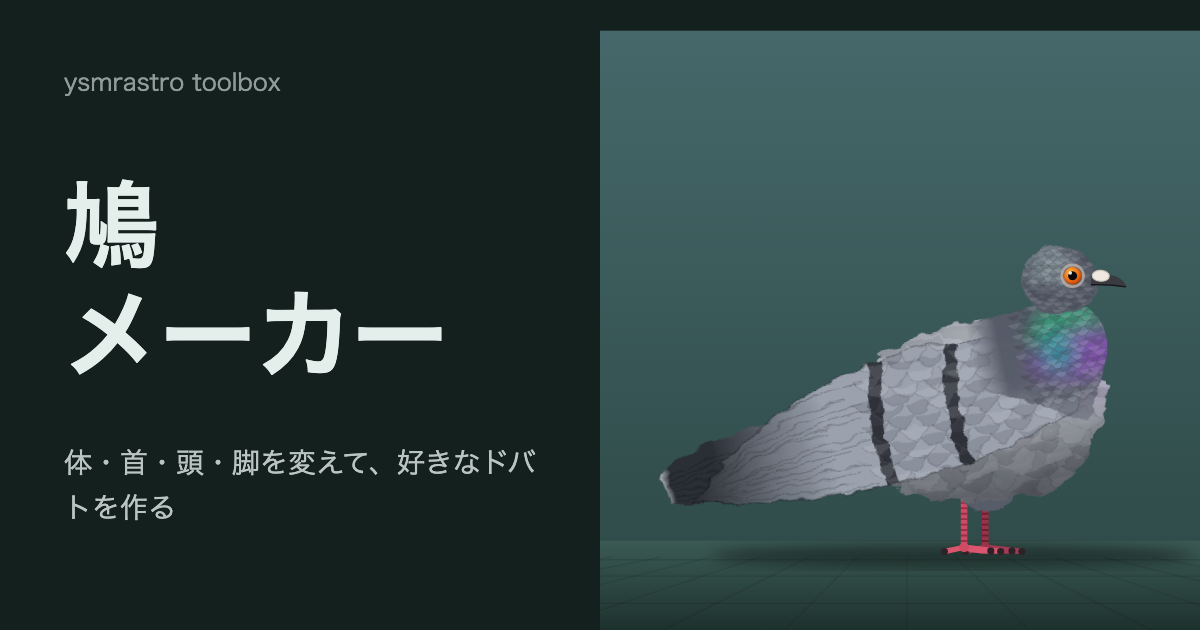
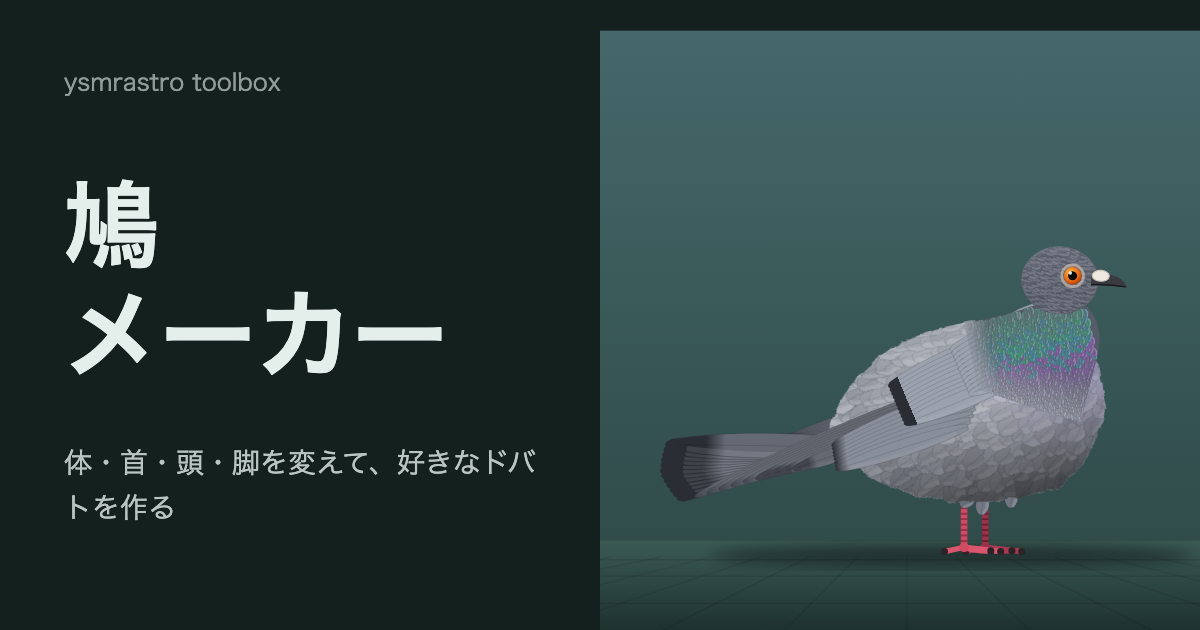
鳩メーカー: 羽を1枚ずつ描き、体を高解像度の画像にして粗さを直す
- 体は輪郭羽を屋根瓦のように重ねて描く（以前は鱗の模様）
- 翼は初列・次列風切と大・中・小雨覆に分け、ブルーバーの帯は羽先の暗色で表す
- 尾は12枚の尾羽。首は羽1枚ごとに玉虫色を付ける
- 体の層はフィルタを使うため、画面の解像度（devicePixelRatio）に合わせた画像にして貼る
  （SVG のままだとスマホでフィルタが低解像度になって粗く見える）
- 首・頭の層は SVG フィルタをやめ、拡大しても崩れないベクターにする

Claude-Session: https://claude.ai/code/session_01GKDzq7dByJNYUnVyWucxve

Changed region(s): [[0.5242, 0.4825, 0.925, 0.8143], [0.8633, 0.3921, 0.8942, 0.4524]]

diff --git a/pigeon-maker/pigeon.js b/pigeon-maker/pigeon.js
@@ -100,21 +100,26 @@ const PIGEON = (() => {
     };
   }
 
-  // ---- 部品 ----
-  function scallops(x0, x1, y0, y1, sc, col, rnd, op) {
-    let out = '';
-    const dy = sc * .8;
-    let row = 0;
-    for (let y = y0; y < y1; y += dy, row++) {
-      for (let x = x0 + (row % 2) * sc; x < x1; x += sc * 2) {
-        const jx = (rnd() - .5) * sc * .6, jy = (rnd() - .5) * sc * .4, w = sc * (.85 + rnd() * .3);
-        const X = x + jx, Y = y + jy, sh = rnd();
-        out += `<path d="M${f(X - w)},${f(Y)}Q${f(X)},${f(Y + sc * 1.6)} ${f(X + w)},${f(Y)}" fill="${sh > .5 ? '#fff' : '#000'}" fill-opacity="${f(.04 + rnd() * .08)}" stroke="${col}" stroke-opacity="${op}" stroke-width=".9"/>`;
-      }
+  // ---- 色と羽 ----
+  const hex2 = h => { if (h.length === 4) h = '#' + h[1] + h[1] + h[2] + h[2] + h[3] + h[3]; return [1, 3, 5].map(i => parseInt(h.substr(i, 2), 16)); };
+  const mix = (a, b, t) => { const A = hex2(a), B = hex2(b); t = Math.max(0, Math.min(1, t)); return '#' + A.map((v, i) => Math.round(v + (B[i] - v) * t).toString(16).padStart(2, '0')).join(''); };
+
+  // 羽1枚。根元が原点、先が +x。ang は時計回りの度。tip を渡すと、先の側を別の色にする（帯）
+  function feather(F, x, y, len, wid, ang, col, o) {
+    o = o || {};
+    let fill = col;
+    if (o.tip) {
+      const id = F.pre + (F.n++), from = o.from || .7;
+      F.defs.push(`<linearGradient id="${id}" x1="0" y1="0" x2="1" y2="0"><stop offset="0" stop-color="${col}"/><stop offset="${f(from)}" stop-color="${col}"/><stop offset="${f(Math.min(1, from + .09))}" stop-color="${o.tip}"/><stop offset="1" stop-color="${o.tip}"/></linearGradient>`);
+      fill = `url(#${id})`;
     }
-    return out;
+    const d = `M0,${f(-wid * .3)}C${f(len * .22)},${f(-wid)} ${f(len * .7)},${f(-wid * 1.05)} ${f(len * .97)},${f(-wid * .35)}Q${f(len * 1.03)},0 ${f(len * .97)},${f(wid * .35)}C${f(len * .7)},${f(wid * 1.05)} ${f(len * .22)},${f(wid)} 0,${f(wid * .3)}Z`;
+    return `<g transform="translate(${f(x)} ${f(y)}) rotate(${f(ang)})"><path d="${d}" fill="${fill}" stroke="${o.edge || '#000'}" stroke-opacity="${o.ea == null ? .32 : o.ea}" stroke-width=".6"/>` +
+      `<path d="M0,0H${f(len * .94)}" stroke="#000" stroke-opacity=".16" stroke-width=".5"/>` +
+      `<path d="M${f(len * .1)},${f(-wid * .25)}C${f(len * .3)},${f(-wid * .7)} ${f(len * .62)},${f(-wid * .75)} ${f(len * .88)},${f(-wid * .3)}" stroke="#fff" stroke-opacity="${o.hl == null ? .14 : o.hl}" stroke-width="${f(wid * .38)}" fill="none" stroke-linecap="round"/></g>`;
   }
 
+  // ---- 部品 ----
   function leg(id, x, y, G, col, toeCol, shade) {
     const s = G.s, th = G.th, L = G.ll;
     const ay = L - 3 * s;
@@ -129,7 +134,7 @@ const PIGEON = (() => {
 
   function neckPath(G, dx, dy) {
     const { a, b, r, s } = G;
-    const P1 = { x: a * .12, y: -b * .92 }, P2 = { x: a * 1.02, y: -b * .28 };
+    const P1 = { x: a * .12, y: -b * .92 }, P2 = { x: a * .95, y: -b * .28 };
     const Hc = { x: G.H.x + dx, y: G.H.y + dy };
     const Hb = { x: Hc.x - r * .9, y: Hc.y + r * .55 }, Hf = { x: Hc.x + r * .62, y: Hc.y + r * .92 };
     const c1 = { x: (P1.x + Hb.x) / 2 - 6 * s, y: (P1.y + Hb.y) / 2 + 4 * s };
@@ -146,89 +151,136 @@ const PIGEON = (() => {
     const fz = f(2 + fl * 13);
     const bodyD = `M${f(-a * .95)},${f(-b * .05)}C${f(-a * .7)},${f(-b * .95)} ${f(a * .1)},${f(-b * 1.05)} ${f(a * .55)},${f(-b * .8)}C${f(a * 1.05)},${f(-b * .5)} ${f(a * (1.08 + .06 * fl))},${f(b * .35)} ${f(a * .55)},${f(b * .9)}C${f(a * .1)},${f(b * 1.05)} ${f(-a * .7)},${f(b * .8)} ${f(-a * .95)},${f(-b * .05)}Z`;
 
-    // 翼（手首から翼端まで、翼長の実測値で決める）
-    const Wx = a * .7, Wy = -b * .45, L = G.wingL, Tx = Wx - L, Ty = b * .3;
-    const wingD = `M${f(Wx)},${f(Wy)}C${f(Wx - L * .25)},${f(-b * 1.02)} ${f(Wx - L * .7)},${f(-b * .8)} ${f(Tx)},${f(Ty)}C${f(Tx + L * .3)},${f(b * .62)} ${f(Wx - L * .3)},${f(b * .66)} ${f(Wx + a * .05)},${f(Wy + b * .62)}C${f(Wx + a * .18)},${f(Wy + b * .3)} ${f(Wx + a * .12)},${f(Wy + b * .08)} ${f(Wx)},${f(Wy)}Z`;
-    const bar = frac => { const x = Wx - L * frac; return `<path d="M${f(x + 16 * s)},${f(-b * 1.0)}Q${f(x - 6 * s)},${f(-b * .15)} ${f(x + 6 * s)},${f(b * .7)}" stroke="${M.bar}" stroke-width="${f(9 * s)}" fill="none" opacity="${morphKey === 'white' ? .5 : .9}"/>`; };
-    let covert = '';
-    if (M.pat === 'checker') {
-      for (let i = 0; i < 46; i++) { const cx = Wx - L * (.04 + rnd() * .5), cy = -b * .9 + rnd() * b * 1.1, w = (5 + rnd() * 4) * s; covert += `<rect x="${f(cx)}" y="${f(cy)}" width="${f(w)}" height="${f(w * .9)}" rx="${f(w * .25)}" fill="${M.bar}" fill-opacity=".8"/>`; }
-    } else if (M.pat === 't') {
-      covert = `<path d="M${f(Wx + 6)},${f(-b * 1.1)}L${f(Wx - L * .56)},${f(-b * 1.1)}L${f(Wx - L * .5)},${f(b * .5)}L${f(Wx + 6)},${f(b * .5)}Z" fill="${M.bar}" fill-opacity=".72"/>`;
-    } else if (M.pat === 'spread') {
-      covert = `<rect x="${f(Tx)}" y="${f(-b * 1.1)}" width="${f(L + 12)}" height="${f(b * 1.7)}" fill="${M.bar}" fill-opacity=".5"/>`;
-    }
-    let flight = '';
-    for (let i = 0; i < 16; i++) {
-      const y = -b * .55 + i * b * .075, x0 = Wx - L * (.5 + rnd() * .12);
-      flight += `<path d="M${f(x0)},${f(y)}Q${f(x0 - L * .25)},${f(y + b * .04)} ${f(Tx + rnd() * 30 * s)},${f(Ty + (y - Ty) * .25)}" stroke="${M.bar}" stroke-opacity=".28" stroke-width=".9" fill="none"/>`;
+    const F = { n: 0, defs: [], pre: 'fb' };
+    const dk = M.bar;
+
+    // ---- 体の輪郭羽（屋根瓦のように、後ろ・下から先に描き、前・上を重ねる）----
+    const flen = (15 + fl * 8) * s, fwid = (6 + fl * 2.6) * s, sx = fwid * 1.15, sy = flen * .42;
+    let bodyF = '', row = 0;
+    for (let y = b * 1.02; y > -b * 1.1; y -= sy, row++) {
+      for (let x = -a * 1.0 + (row % 2) * sx / 2; x < a * 1.12; x += sx) {
+        const X = x + (rnd() - .5) * sx * .5, Y = y + (rnd() - .5) * sy * .5;
+        const xr = X / a, v = Math.min(1, Math.max(0, (Y + b) / (2 * b)));
+        const ang = 176 - 38 * v - 60 * Math.max(0, xr - .45) + (rnd() - .5) * 9;
+        let c = mix(M.body, M.light, Math.sin(Math.PI * v) * .55);
+        c = mix(c, '#000', Math.max(0, v - .62) * .5);
+        c = mix(c, rnd() > .5 ? '#fff' : '#000', rnd() * .08);
+        const dBr = Math.hypot((X - a * .85) / b, (Y + b * .35) / (b * .8));
+        if (dBr < 1) c = mix(c, '#6a5aa0', (1 - dBr) * .4 * sheen * 1.4);
+        bodyF += feather(F, X, Y, flen * (.9 + rnd() * .25), fwid * (.9 + rnd() * .2), ang, c, { edge: M.dark });
+      }
     }
 
-    // 尾（先に暗い帯）
+    // ---- 翼: 初列・次列風切 → 大雨覆 → 中雨覆 → 小雨覆の順に重ねる ----
+    const Wx = a * .7, Wy = -b * .45, Tx0 = Wx - G.wingL, Ty = b * .3;
+    const L = Math.hypot(Tx0 - Wx, Ty - Wy), th = Math.atan2(Ty - Wy, Tx0 - Wx) * 180 / Math.PI;
+    const pat = M.pat, wcol = pat === 'spread' ? mix(M.wing, dk, .55) : M.wing;
+    const banded = pat === 'bar' || pat === 'checker' || pat === 't';
+    const bandCol = pat === 'none' ? mix(M.wing, '#8a8f98', .35) : dk;
+    const covCol = pat === 't' ? mix(M.wing, dk, .72) : wcol;
+    const wo = { edge: dk, ea: .2, hl: .05 };
+    let W = '';
+    const bandFrom = (len, px) => Math.max(.5, 1 - px / len);
+    const fan = (y0, bx0, tipx, taper) => Math.atan2(-y0 * taper * (tipx / L), tipx - bx0) * 180 / Math.PI;   // 先が翼の中心線に収束する
+    for (let i = 0; i < 9; i++) {   // 初列風切（暗い）
+      const bx0 = L * (.36 + i * .02), tipx = L * (.99 - i * .032), y0 = b * .1 - i * b * .03, len = tipx - bx0;
+      W += feather(F, bx0, y0, len, 6.2 * s, fan(y0, bx0, tipx, .55), mix(wcol, dk, pat === 'none' ? .12 : .5), { tip: mix(wcol, dk, pat === 'none' ? .2 : .8), from: bandFrom(len, 16 * s), edge: dk, ea: .2, hl: .05 });
+    }
+    for (let j = 0; j < 8; j++) {   // 次列風切（先に帯）
+      const bx0 = L * (.2 + j * .012), tipx = L * .62 + j * s * .6, y0 = -b * .02 - j * b * .05, len = tipx - bx0;
+      W += feather(F, bx0, y0, len, 7 * s, fan(y0, bx0, tipx, .5), mix(wcol, dk, .16), banded || pat === 'none' ? { tip: bandCol, from: bandFrom(len, 13 * s), edge: dk, ea: .2, hl: .05 } : wo);
+    }
+    for (let i = 0; i < 11; i++) {  // 大雨覆（先に帯）
+      const bx0 = L * .12, tipx = L * .43, y0 = b * .36 - i * b * .047, len = tipx - bx0;
+      W += feather(F, bx0, y0, len, 7.5 * s, fan(y0, bx0, tipx, .3), covCol, banded && pat !== 't' ? { tip: bandCol, from: bandFrom(len, 13 * s), edge: dk, ea: .2, hl: .05 } : wo);
+    }
+    for (let i = 0; i < 12; i++) {  // 中雨覆（チェッカーは先が暗い）
+      const dark = pat === 'checker' && rnd() < .7, bx0 = L * .03, tipx = L * .25, y0 = b * .44 - i * b * .047;
+      W += feather(F, bx0, y0, tipx - bx0, 6.4 * s, fan(y0, bx0, tipx, .25), covCol, dark ? { tip: mix(wcol, dk, .82), from: .5, edge: dk, ea: .2, hl: .05 } : wo);
+    }
+    for (let i = 0; i < 13; i++) {  // 小雨覆
+      const dark = pat === 'checker' && rnd() < .55, bx0 = -L * .03, tipx = L * .13, y0 = b * .47 - i * b * .036;
+      W += feather(F, bx0, y0, tipx - bx0, 5.2 * s, fan(y0, bx0, tipx, .2), covCol, dark ? { tip: mix(wcol, dk, .8), from: .45, edge: dk, ea: .2, hl: .05 } : wo);
+    }
+
+    // ---- 尾: 12枚の尾羽。先に暗い帯 ----
     const bx = -a * .7;
-    const tailD = `M${f(bx)},${f(-b * .32)}C${f(-a - tl * .4)},${f(-b * .38)} ${f(-a - tl * .9)},${f(-b * .24)} ${f(-a - tl)},${f(-b * .04)}L${f(-a - tl * .98)},${f(b * .26)}C${f(-a - tl * .8)},${f(b * .4)} ${f(-a - tl * .3)},${f(b * .42)} ${f(bx)},${f(b * .36)}Z`;
-    let tailLines = '';
-    for (let i = 0; i < 7; i++) { const y = -b * .28 + i * b * .09; tailLines += `<path d="M${f(bx - 8)},${f(y)}L${f(-a - tl * (.96 - i * .004))},${f(-b * .02 + i * b * .045)}" stroke="#000" stroke-opacity=".16" stroke-width=".9"/>`; }
+    let tailF = '';
+    for (let k = 0; k < 12; k++) {
+      const o = Math.abs(k - 5.5);
+      tailF += feather(F, bx, -b * .05 + (k - 5.5) * b * .03, tl + a * .3 - o * s * .8, 10.5 * s, 180 + (k - 5.5) * 2.3, mix(M.tail, M.body, .25 + (rnd() - .5) * .1), { tip: dk, from: .66, edge: dk, hl: .1 });
+    }
+    // ---- もも（脚のつけ根の羽毛）----
+    let thigh = '';
+    if (G.pose !== 'sit') for (let i = 0; i < 16; i++) thigh += feather(F, a * .06 + (rnd() - .5) * a * .3, b * .55 + rnd() * b * .3, 14 * s, 5.6 * s, 100 + rnd() * 50, mix(M.dark, M.body, .35 + rnd() * .2), { edge: dk });
 
-    // ---- 層B: 体（静止）----
     const B = `
 <defs>
- <filter id="fz" x="-15%" y="-30%" width="130%" height="160%"><feTurbulence type="fractalNoise" baseFrequency=".05 .09" numOctaves="3" seed="4" result="n"/><feDisplacementMap in="SourceGraphic" in2="n" scale="${fz}" xChannelSelector="R" yChannelSelector="G"/></filter>
- <filter id="fz2" x="-15%" y="-30%" width="130%" height="160%"><feTurbulence type="fractalNoise" baseFrequency=".06 .1" numOctaves="2" seed="9" result="n"/><feDisplacementMap in="SourceGraphic" in2="n" scale="${f(fz * .6)}" xChannelSelector="R" yChannelSelector="G"/></filter>
+ <filter id="fz" x="-10%" y="-20%" width="120%" height="140%"><feTurbulence type="fractalNoise" baseFrequency=".07 .1" numOctaves="2" seed="4" result="n"/><feDisplacementMap in="SourceGraphic" in2="n" scale="${f(1.2 + fl * 5)}" xChannelSelector="R" yChannelSelector="G"/></filter>
  <clipPath id="cb"><path d="${bodyD}"/></clipPath>
- <clipPath id="cw"><path d="${wingD}"/></clipPath>
- <linearGradient id="gb" gradientUnits="userSpaceOnUse" x1="0" y1="${f(-b)}" x2="0" y2="${f(b)}"><stop offset="0" stop-color="${M.body}"/><stop offset=".5" stop-color="${M.light}"/><stop offset="1" stop-color="${M.body}"/></linearGradient>
- <linearGradient id="gs" gradientUnits="userSpaceOnUse" x1="0" y1="${f(-b * .1)}" x2="0" y2="${f(b)}"><stop offset="0" stop-color="#000" stop-opacity="0"/><stop offset="1" stop-color="#000" stop-opacity=".42"/></linearGradient>
- <radialGradient id="gh" gradientUnits="userSpaceOnUse" cx="${f(a * .2)}" cy="${f(-b * .55)}" r="${f(a * .95)}"><stop offset="0" stop-color="#fff" stop-opacity=".3"/><stop offset="1" stop-color="#fff" stop-opacity="0"/></radialGradient>
- <radialGradient id="gc" gradientUnits="userSpaceOnUse" cx="${f(a * .85)}" cy="${f(-b * .35)}" r="${f(b * .8)}"><stop offset="0" stop-color="#3fae86" stop-opacity="${f(sheen * .6)}"/><stop offset=".55" stop-color="#9a52c9" stop-opacity="${f(sheen * .22)}"/><stop offset=".85" stop-color="#9a52c9" stop-opacity="0"/></radialGradient>
- <linearGradient id="gw" gradientUnits="userSpaceOnUse" x1="${f(Wx)}" y1="0" x2="${f(Tx)}" y2="0"><stop offset="0" stop-color="${M.wing}"/><stop offset=".62" stop-color="${M.wing}"/><stop offset="1" stop-color="${M.bar}" stop-opacity=".85"/></linearGradient>
- <linearGradient id="gt" gradientUnits="userSpaceOnUse" x1="${f(bx)}" y1="0" x2="${f(-a - tl)}" y2="0"><stop offset="0" stop-color="${M.body}"/><stop offset=".5" stop-color="${M.tail}"/><stop offset=".74" stop-color="${M.bar}"/><stop offset=".96" stop-color="${M.bar}"/><stop offset="1" stop-color="${M.light}"/></linearGradient>
+ <linearGradient id="gs" gradientUnits="userSpaceOnUse" x1="0" y1="${f(-b * .1)}" x2="0" y2="${f(b)}"><stop offset="0" stop-color="#000" stop-opacity="0"/><stop offset="1" stop-color="#000" stop-opacity=".5"/></linearGradient>
+ <radialGradient id="gh" gradientUnits="userSpaceOnUse" cx="${f(a * .2)}" cy="${f(-b * .6)}" r="${f(a * .95)}"><stop offset="0" stop-color="#fff" stop-opacity=".26"/><stop offset="1" stop-color="#fff" stop-opacity="0"/></radialGradient>
+ ${F.defs.join('')}
 </defs>
 <g transform="translate(${f(G.CX)} ${f(G.CY)}) rotate(${TILT})">
- <g filter="url(#fz2)"><path d="${tailD}" fill="url(#gt)"/>${tailLines}</g>
- ${G.pose === 'sit' ? '' : `<g filter="url(#fz)"><ellipse cx="${f(a * .06)}" cy="${f(b * .72)}" rx="${f(a * .22)}" ry="${f(b * .3)}" fill="${M.dark}"/></g>`}
+ ${tailF}
+ ${thigh}
  <g filter="url(#fz)">
-  <path d="${bodyD}" fill="url(#gb)"/>
+  <path d="${bodyD}" fill="${M.body}"/>
   <g clip-path="url(#cb)">
-   ${scallops(-a, a * 1.1, -b, b, (7 + fl * 6) * s, M.dark, rnd, .22)}
+   ${bodyF}
    <rect x="${f(-a)}" y="${f(-b * 1.1)}" width="${f(a * 2.3)}" height="${f(b * 2.3)}" fill="url(#gh)"/>
    <rect x="${f(-a)}" y="${f(-b * 1.1)}" width="${f(a * 2.3)}" height="${f(b * 2.3)}" fill="url(#gs)"/>
-   <rect x="${f(-a)}" y="${f(-b * 1.1)}" width="${f(a * 2.3)}" height="${f(b * 2.3)}" fill="url(#gc)"/>
   </g>
  </g>
- <g filter="url(#fz2)">
-  <path d="${wingD}" fill="url(#gw)"/>
-  <g clip-path="url(#cw)">
-   ${M.pat === 'bar' || M.pat === 'checker' ? bar(.3) + bar(.5) : ''}${covert}
-   ${scallops(Tx + L * .5, Wx + 4, -b, b * .6, 10 * s, M.dark, rnd, .3)}
-   ${flight}
-  </g>
-  <path d="${wingD}" fill="none" stroke="#000" stroke-opacity=".28" stroke-width="1.1"/>
- </g>
+ <g transform="translate(${f(Wx)} ${f(Wy)}) rotate(${f(th)})">${W}</g>
 </g>`;
 
-    // ---- 層C: 首と頭（動く）----
+    // ---- 層C: 首と頭（動く。フィルタを使わず、拡大しても崩れない）----
+    const F2 = { n: 0, defs: [], pre: 'fc' };
+    const Pn = [{ x: a * .12, y: -b * .92 }, { x: H.x - r * .9, y: H.y + r * .55 }, { x: H.x + r * .62, y: H.y + r * .92 }, { x: a * .95, y: -b * .28 }, { x: a * .82, y: b * .32 }, { x: a * .12, y: -b * .22 }];
+    const inPoly = (x, y) => { let c = false; for (let i = 0, j = Pn.length - 1; i < Pn.length; j = i++) { if ((Pn[i].y > y) !== (Pn[j].y > y) && x < (Pn[j].x - Pn[i].x) * (y - Pn[i].y) / (Pn[j].y - Pn[i].y) + Pn[i].x) c = !c; } return c; };
+    const GRN = '#2fb27a', TEAL = '#2a9db0', PUR = '#9a52c9';
+    let neckF = '';
+    const nw = 2.5 * s, nl = 6.6 * s;
+    for (let y = H.y + r * 3.9; y > H.y - r * .2; y -= nl * .42) {
+      for (let x = Math.min(Pn[0].x, Pn[1].x) - 6; x < Math.max(Pn[2].x, Pn[3].x) + 6; x += nw * 1.15) {
+        const X = x + (rnd() - .5) * nw * .6, Y = y + (rnd() - .5) * nl * .3;
+        if (!inPoly(X, Y)) continue;
+        const tt = Math.min(1, Math.max(0, (Y - (H.y + r * .4)) / (r * 2.6)));
+        const w = sheen * Math.exp(-Math.pow((Y - (H.y + r * 1.7)) / (r * 1.25), 2)) * Math.min(1, Math.max(0, (X - Pn[0].x) / (r * 1.0)));
+        const tone = tt + (rnd() - .5) * .5 < .38 ? GRN : (tt + (rnd() - .5) * .4 < .62 ? TEAL : PUR);
+        const yb = Pn[5].y + (Pn[4].y - Pn[5].y) * Math.min(1, Math.max(0, (X - Pn[5].x) / (Pn[4].x - Pn[5].x)));
+        const fade = Math.min(1, Math.max(0, (yb - Y) / (r * 1.5)));   // 下端は体の色に溶かす
+        const c = mix(mix(M.body, M.light, .25), mix(mix(M.dark, M.light, .12 + rnd() * .1), tone, w * (.55 + rnd() * .45) * .95), fade);
+        neckF += feather(F2, X, Y, nl, nw, 95 + (rnd() - .5) * 22 + Math.max(0, (X - H.x)) * .4, c, { edge: M.dark, hl: .2 });
+      }
+    }
+    let headF = '';
+    for (let y = r * 1.0; y > -r * 1.0; y -= r * .13) {
+      for (let x = -r * 1.2; x < r * 1.1; x += r * .12) {
+        const X = x + (rnd() - .5) * r * .08, Y = y + (rnd() - .5) * r * .06;
+        const c = mix(M.dark, M.light, .22 * Math.max(0, .6 - (Y / r + 1) / 2) + rnd() * .12);
+        headF += feather(F2, X, Y, r * .34, r * .14, 178 + (rnd() - .5) * 20, c, { edge: M.dark, hl: .12 });
+      }
+    }
+
     const Cc = `
 <defs>
- <filter id="bl"><feGaussianBlur stdDeviation="${f(6 * s)}"/></filter>
- <mask id="nm" maskContentUnits="objectBoundingBox"><linearGradient id="nmg" x1="0" y1="0" x2="1" y2="0"><stop offset="0" stop-color="#fff" stop-opacity="0"/><stop offset=".22" stop-color="#fff" stop-opacity="1"/></linearGradient><rect width="1" height="1" fill="url(#nmg)"/></mask>
- <clipPath id="ch"><ellipse rx="${f(r * 1.08)}" ry="${f(r * .94)}"/></clipPath>
+ <mask id="nm" maskContentUnits="objectBoundingBox"><linearGradient id="nmg" x1="0" y1="0" x2="1" y2="0"><stop offset="0" stop-color="#fff" stop-opacity="0"/><stop offset=".2" stop-color="#fff" stop-opacity="1"/></linearGradient><rect width="1" height="1" fill="url(#nmg)"/></mask>
+ <clipPath id="ch"><ellipse rx="${f(r * 1.1)}" ry="${f(r * .96)}"/></clipPath>
  <clipPath id="nk"><path id="nkp" d="${neckPath(G, 0, 0)}"/></clipPath>
- <linearGradient id="gn" x1="0" y1="1" x2="0" y2="0"><stop offset="0" stop-color="${M.dark}" stop-opacity=".4"/><stop offset=".45" stop-color="${M.dark}" stop-opacity=".97"/><stop offset="1" stop-color="${M.dark}"/></linearGradient>
- <radialGradient id="gha" cx=".35" cy=".3" r=".85"><stop offset="0" stop-color="${M.light}" stop-opacity=".55"/><stop offset=".5" stop-color="${M.dark}"/><stop offset="1" stop-color="${M.dark}"/></radialGradient>
+ <linearGradient id="gn" x1="0" y1="1" x2="0" y2="0"><stop offset="0" stop-color="${M.dark}" stop-opacity=".5"/><stop offset=".45" stop-color="${M.dark}" stop-opacity=".98"/><stop offset="1" stop-color="${M.dark}"/></linearGradient>
+ <radialGradient id="gha" cx=".35" cy=".3" r=".85"><stop offset="0" stop-color="${M.light}" stop-opacity=".5"/><stop offset=".55" stop-color="${M.dark}"/><stop offset="1" stop-color="${M.dark}"/></radialGradient>
  <radialGradient id="gi" cx=".4" cy=".35" r=".7"><stop offset="0" stop-color="#ffc24a"/><stop offset=".7" stop-color="#e5600c"/><stop offset="1" stop-color="#a63a06"/></radialGradient>
+ ${F2.defs.join('')}
 </defs>
 <g transform="translate(${f(G.CX)} ${f(G.CY)}) rotate(${TILT})">
- <path id="neck" d="${neckPath(G, 0, 0)}" fill="url(#gn)" filter="url(#fz2)" mask="url(#nm)"/>
- <g clip-path="url(#nk)"><g id="sheen" opacity="${f(sheen)}" filter="url(#bl)">
-  <ellipse cx="${f(H.x - r * .1)}" cy="${f(H.y + r * 1.5)}" rx="${f(r * 1.1)}" ry="${f(r * .85)}" fill="#2fb27a"/>
-  <ellipse cx="${f(H.x + r * .1)}" cy="${f(H.y + r * 2.2)}" rx="${f(r * 1.5)}" ry="${f(r * .7)}" fill="#8f4fc4"/>
-  <ellipse cx="${f(H.x - r * .5)}" cy="${f(H.y + r * 2.0)}" rx="${f(r * .5)}" ry="${f(r * .6)}" fill="#2a9db0"/>
- </g></g>
- <g clip-path="url(#nk)"><g id="neckTex">${scallops(H.x - r * 1.5, H.x + r * 1.4, H.y - r * .2, H.y + r * 3.4, 4.6 * s, M.dark, rnd, .38)}</g></g>
+ <g mask="url(#nm)"><path id="neck" d="${neckPath(G, 0, 0)}" fill="url(#gn)"/>
+ <g clip-path="url(#nk)"><g id="neckTex">${neckF}</g></g></g>
  <g id="head" transform="translate(${f(H.x)} ${f(H.y)}) rotate(14)">
-  <ellipse rx="${f(r * 1.12)}" ry="${f(r * .98)}" fill="url(#gha)" filter="url(#fz2)"/>
-  <g clip-path="url(#ch)">${scallops(-r * 1.2, r * 1.1, -r, r, 3.6 * s, M.dark, rnd, .3)}</g>
+  <ellipse rx="${f(r * 1.12)}" ry="${f(r * .98)}" fill="url(#gha)"/>
+  <g clip-path="url(#ch)">${headF}</g>
   <path d="M${f(r * .9)},${f(-r * .2)}C${f(r * .9 + bl * .5)},${f(-r * .27)} ${f(r * .9 + bl * .85)},${f(-r * .2)} ${f(r * .9 + bl)},${f(r * .13)}C${f(r * .9 + bl * .7)},${f(r * .13)} ${f(r * .9 + bl * .4)},${f(r * .1)} ${f(r * .9)},${f(r * .1)}Z" fill="#3a3a41"/>
   <path d="M${f(r * .9)},${f(r * .1)}Q${f(r * .9 + bl * .5)},${f(r * .06)} ${f(r * .9 + bl * .96)},${f(r * .12)}" stroke="#15151a" stroke-width="1" fill="none"/>
   <ellipse cx="${f(r * .9 + bl * .26)}" cy="${f(-r * .17)}" rx="${f(bl * .24)}" ry="${f(bl * .15)}" fill="#efe9e1" stroke="#cdc4b8" stroke-width=".8"/>
@@ -263,7 +315,7 @@ ${G.pose === 'sit' ? '' : leg('legF', G.hw.x + 15 * s, G.hw.y, G, '#9a3249', '#a
   // ---- 動き ----
   function bind(stage, G) {
     const q = id => stage.querySelector('#' + id);
-    return { G, layers: [...stage.querySelectorAll('svg')], neck: q('neck'), nkp: q('nkp'), sheen: q('sheen'), tex: q('neckTex'), head: q('head'), legN: q('legN'), legF: q('legF') };
+    return { G, layers: [...stage.children], neck: q('neck'), nkp: q('nkp'), sheen: q('sheen'), tex: q('neckTex'), head: q('head'), legN: q('legN'), legF: q('legF') };
   }
 
   function tick(h, t, pose) {

diff --git a/pigeon-maker/app.js b/pigeon-maker/app.js
@@ -75,12 +75,37 @@
     raf = requestAnimationFrame(() => render());
   }
 
+  // 体の層（羽毛が多くフィルタも使う）は、画面の解像度に合わせた画像にして貼る。
+  // SVG のまま画面サイズで描くと、スマホ（特に Safari）でフィルタが低解像度になって粗く見える。
+  let renderId = 0;
+  function bodyImage(inner, done) {
+    const w = Math.min(2600, Math.max(P.VW, Math.round((stage.clientWidth || P.VW) * (window.devicePixelRatio || 1) * 1.15)));
+    const h = Math.round(w * P.VH / P.VW);
+    const svg = `<svg xmlns="http://www.w3.org/2000/svg" viewBox="0 0 ${P.VW} ${P.VH}" width="${w}" height="${h}">${inner}</svg>`;
+    const url = URL.createObjectURL(new Blob([svg], { type: 'image/svg+xml' }));
+    const img = new Image();
+    img.onload = () => done(img, url);
+    img.onerror = () => URL.revokeObjectURL(url);
+    img.src = url;
+  }
+
+  let lastBuild = null;
   function render() {
+    const id = ++renderId;
     const b = P.build(st.p, st.morph, st.pose, st.seed);
     const vb = `0 0 ${P.VW} ${P.VH}`;
-    stage.innerHTML = ['A', 'B', 'C'].map(k => `<svg viewBox="${vb}" xmlns="http://www.w3.org/2000/svg" aria-hidden="true">${b[k]}</svg>`).join('');
+    stage.innerHTML = `<svg viewBox="${vb}" xmlns="http://www.w3.org/2000/svg" aria-hidden="true">${b.A}</svg><div class="pm__body" aria-hidden="true"></div><svg viewBox="${vb}" xmlns="http://www.w3.org/2000/svg" aria-hidden="true">${b.C}</svg>`;
     handles = P.bind(stage, b.G);
+    const holder = stage.children[1];
+    bodyImage(b.B, (img, url) => {
+      if (id !== renderId) { URL.revokeObjectURL(url); return; }
+      holder.appendChild(img);
+      setTimeout(() => URL.revokeObjectURL(url), 5000);
+    });
+    lastBuild = b;
   }
+  let rz = 0;
+  window.addEventListener('resize', () => { clearTimeout(rz); rz = setTimeout(() => render(), 250); });
 
   const reduce = window.matchMedia && matchMedia('(prefers-reduced-motion: reduce)').matches;
   let t0 = performance.now();
@@ -116,7 +141,7 @@
     } catch (_) { alert('設定を読み込めませんでした'); }
   });
   document.getElementById('save').addEventListener('click', () => {
-    const layers = [...stage.querySelectorAll('svg')].map(s => s.innerHTML).join('');
+    const layers = lastBuild.A + lastBuild.B + lastBuild.C;
     const svg = `<svg xmlns="http://www.w3.org/2000/svg" width="${P.VW * 2}" height="${P.VH * 2}" viewBox="0 0 ${P.VW} ${P.VH}">${layers}</svg>`;
     const img = new Image();
     img.onload = () => {

diff --git a/pigeon-maker/style.css b/pigeon-maker/style.css
@@ -7,7 +7,8 @@ body { background: var(--pm-bg); color: var(--pm-text); }
 .pm__info { margin:.75rem .75rem 0; padding:.5rem .75rem; border-radius:10px; background:rgba(0,0,0,.28); font-size:.875rem; line-height:1.5; position:relative; z-index:2; }
 .pm__info b { font-size:1rem; margin-right:.75rem; }
 .pm__stage { position:relative; aspect-ratio:640/440; margin-top:-2.5rem; }
-.pm__stage svg { position:absolute; inset:0; width:100%; height:100%; display:block; }
+.pm__stage svg, .pm__body { position:absolute; inset:0; width:100%; height:100%; display:block; }
+.pm__body img { width:100%; height:100%; display:block; }
 .pm__poses { display:flex; gap:.5rem; padding:.5rem .75rem .75rem; overflow-x:auto; }
 .pm__poses button { flex:0 0 auto; padding:.5rem 1rem; border-radius:10px; border:0; background:rgba(0,0,0,.3); color:inherit; font-size:.875rem; cursor:pointer; }
 .pm__poses button[aria-checked="true"] { background:var(--pm-accent); color:#0f1c19; font-weight:700; }
